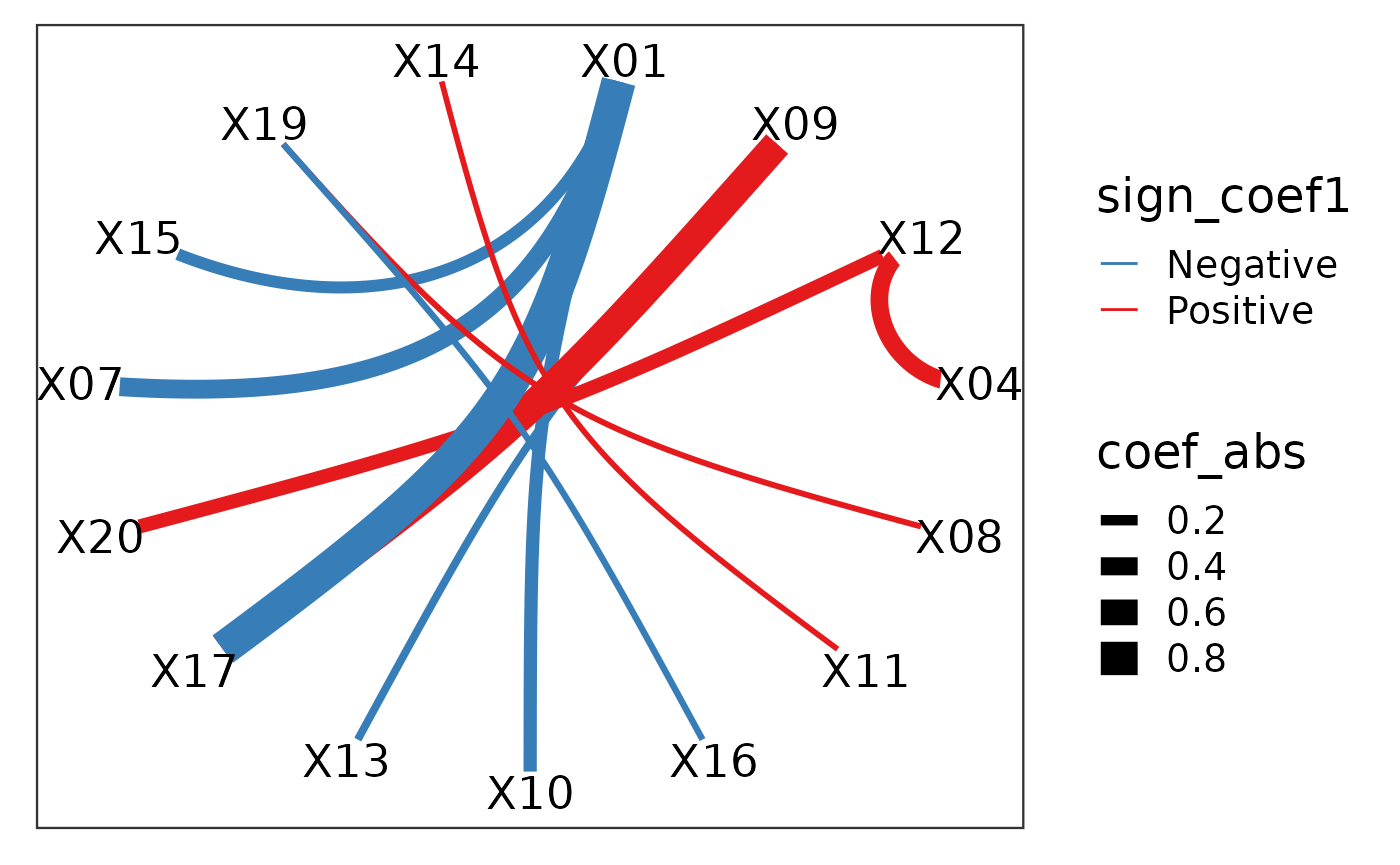
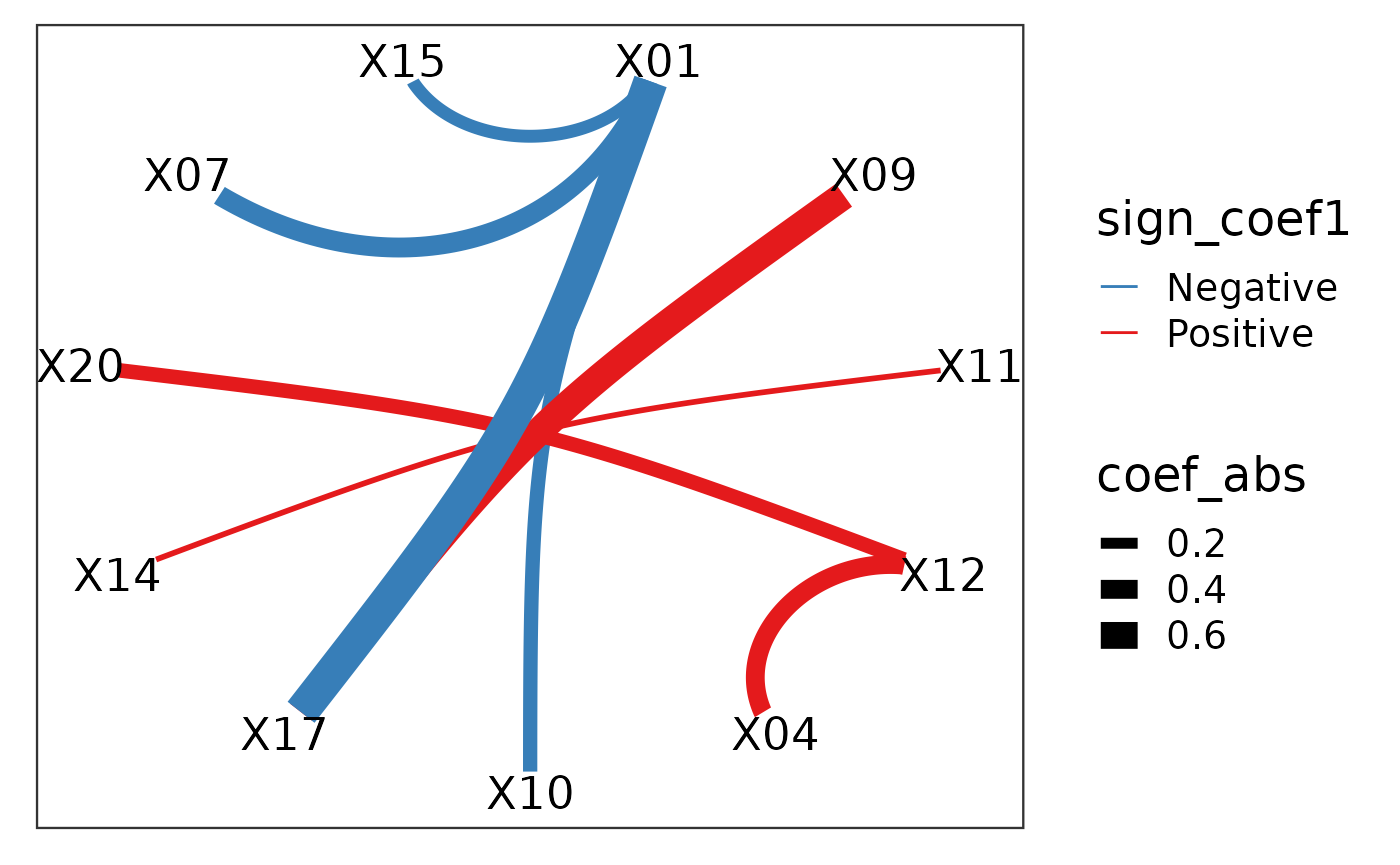
Built site for CPOP: 0.0.24@60bfb84

diff --git a/articles/CPOP.html b/articles/CPOP.html
@@ -161,28 +161,28 @@
 <pre><code><span class="co">## Fitting CPOP model using alpha = 1</span></code></pre>
 <pre><code><span class="co">## Based on previous alpha, 0 features are kept</span></code></pre>
 <pre><code><span class="co">## CPOP1 - Step 01: Number of selected features: 0 out of 190</span></code></pre>
-<pre><code><span class="co">## CPOP1 - Step 02: Number of selected features: 7 out of 190</span></code></pre>
+<pre><code><span class="co">## CPOP1 - Step 02: Number of selected features: 9 out of 190</span></code></pre>
 <pre><code><span class="co">## CPOP1 - Step 03: Number of selected features: 16 out of 190</span></code></pre>
 <pre><code><span class="co">## 10 features was reached.</span></code></pre>
 <pre><code><span class="co">## A total of 16 features were selected.</span></code></pre>
 <pre><code><span class="co">## Removing sources of collinearity gives 13 features.</span></code></pre>
 <pre><code><span class="co">## 10 features was reached.</span></code></pre>
 <pre><code><span class="co">## A total of 13 features were selected.</span></code></pre>
-<pre><code><span class="co">## CPOP2 - Sign: Step 01: Number of leftover features: 12 out of 13</span></code></pre>
+<pre><code><span class="co">## CPOP2 - Sign: Step 01: Number of leftover features: 9 out of 13</span></code></pre>
 <pre><code><span class="co">## The sign matrix between the two data:</span></code></pre>
 <pre><code><span class="co">##     </span>
 <span class="co">##      -1 0 1</span>
-<span class="co">##   -1  0 0 0</span>
+<span class="co">##   -1  0 0 1</span>
 <span class="co">##   0   0 0 0</span>
-<span class="co">##   1   1 0 0</span></code></pre>
-<pre><code><span class="co">## CPOP2 - Sign: Step 02: Number of leftover features: 11 out of 13</span>
+<span class="co">##   1   3 0 0</span></code></pre>
+<pre><code><span class="co">## CPOP2 - Sign: Step 02: Number of leftover features: 8 out of 13</span>
 <span class="co">## The sign matrix between the two data:</span></code></pre>
 <pre><code><span class="co">##     </span>
 <span class="co">##      -1 0 1</span>
 <span class="co">##   -1  0 0 0</span>
 <span class="co">##   0   0 0 0</span>
 <span class="co">##   1   1 0 0</span></code></pre>
-<pre><code><span class="co">## CPOP2 - Sign: Step 03: Number of leftover features: 11 out of 13</span>
+<pre><code><span class="co">## CPOP2 - Sign: Step 03: Number of leftover features: 8 out of 13</span>
 <span class="co">## The sign matrix between the two data:</span></code></pre>
 <pre><code><span class="co">##     </span>
 <span class="co">##      -1 0 1</span>
@@ -205,20 +205,17 @@
 <p><img src="CPOP_files/figure-html/unnamed-chunk-5-1.png" width="700"></p>
 <pre><code><span class="co">## </span>
 <span class="co">## $data</span>
-<span class="co">## <span style="color: #949494;"># A tibble: 11 × 3</span></span>
-<span class="co">##    coef_name   coef1   coef2</span>
-<span class="co">##    <span style="color: #949494; font-style: italic;">&lt;fct&gt;</span>       <span style="color: #949494; font-style: italic;">&lt;dbl&gt;</span>   <span style="color: #949494; font-style: italic;">&lt;dbl&gt;</span></span>
-<span class="co">## <span style="color: #BCBCBC;"> 1</span> X01--X10  -<span style="color: #BB0000;">0.325</span>  -<span style="color: #BB0000;">0.224</span> </span>
-<span class="co">## <span style="color: #BCBCBC;"> 2</span> X09--X13  -<span style="color: #BB0000;">0.068</span><span style="color: #BB0000; text-decoration: underline;">5</span> -<span style="color: #BB0000;">0.198</span> </span>
-<span class="co">## <span style="color: #BCBCBC;"> 3</span> X09--X17   0.748   0.639 </span>
-<span class="co">## <span style="color: #BCBCBC;"> 4</span> X12--X20   0.399   0.195 </span>
-<span class="co">## <span style="color: #BCBCBC;"> 5</span> X01--X07  -<span style="color: #BB0000;">0.433</span>  -<span style="color: #BB0000;">0.409</span> </span>
-<span class="co">## <span style="color: #BCBCBC;"> 6</span> X01--X15  -<span style="color: #BB0000;">0.159</span>  -<span style="color: #BB0000;">0.327</span> </span>
-<span class="co">## <span style="color: #BCBCBC;"> 7</span> X01--X17  -<span style="color: #BB0000;">0.922</span>  -<span style="color: #BB0000;">0.719</span> </span>
-<span class="co">## <span style="color: #BCBCBC;"> 8</span> X04--X12   0.344   0.437 </span>
-<span class="co">## <span style="color: #BCBCBC;"> 9</span> X08--X19   0.029<span style="text-decoration: underline;">8</span>  0.136 </span>
-<span class="co">## <span style="color: #BCBCBC;">10</span> X11--X14   0.128   0.025<span style="text-decoration: underline;">6</span></span>
-<span class="co">## <span style="color: #BCBCBC;">11</span> X16--X19  -<span style="color: #BB0000;">0.027</span><span style="color: #BB0000; text-decoration: underline;">6</span> -<span style="color: #BB0000;">0.165</span></span></code></pre>
+<span class="co">## <span style="color: #949494;"># A tibble: 8 × 3</span></span>
+<span class="co">##   coef_name  coef1    coef2</span>
+<span class="co">##   <span style="color: #949494; font-style: italic;">&lt;fct&gt;</span>      <span style="color: #949494; font-style: italic;">&lt;dbl&gt;</span>    <span style="color: #949494; font-style: italic;">&lt;dbl&gt;</span></span>
+<span class="co">## <span style="color: #BCBCBC;">1</span> X01--X10  -<span style="color: #BB0000;">0.322</span> -<span style="color: #BB0000;">0.246</span>  </span>
+<span class="co">## <span style="color: #BCBCBC;">2</span> X09--X17   0.722  0.538  </span>
+<span class="co">## <span style="color: #BCBCBC;">3</span> X11--X14   0.130  0.003<span style="text-decoration: underline;">47</span></span>
+<span class="co">## <span style="color: #BCBCBC;">4</span> X12--X20   0.404  0.178  </span>
+<span class="co">## <span style="color: #BCBCBC;">5</span> X01--X07  -<span style="color: #BB0000;">0.437</span> -<span style="color: #BB0000;">0.412</span>  </span>
+<span class="co">## <span style="color: #BCBCBC;">6</span> X01--X15  -<span style="color: #BB0000;">0.158</span> -<span style="color: #BB0000;">0.340</span>  </span>
+<span class="co">## <span style="color: #BCBCBC;">7</span> X01--X17  -<span style="color: #BB0000;">0.901</span> -<span style="color: #BB0000;">0.667</span>  </span>
+<span class="co">## <span style="color: #BCBCBC;">8</span> X04--X12   0.353  0.443</span></code></pre>
 <p>We can see that most of the selected features had similar coefficients across the two data. This is exactly what CPOP is aiming to achieve: selecting features that are consistent within each datasets.</p>
 <p>However, each of the feature (e.g. <code>X01--X10</code>) actually corresponds to two of the original features in the raw data <code>X01</code> and <code>X10</code> in the data <code>x1</code> and <code>x2</code>. We can further visualise these features in the original features.</p>
 <div class="sourceCode" id="cb33"><pre class="downlit sourceCode r">
@@ -227,20 +224,17 @@
 <p><img src="CPOP_files/figure-html/unnamed-chunk-6-1.png" width="700"></p>
 <pre><code><span class="co">## </span>
 <span class="co">## $data</span>
-<span class="co">## <span style="color: #949494;"># A tibble: 11 × 7</span></span>
-<span class="co">##    from  to      coef1   coef2 coef_avg coef_abs sign_coef1</span>
-<span class="co">##    <span style="color: #949494; font-style: italic;">&lt;chr&gt;</span> <span style="color: #949494; font-style: italic;">&lt;chr&gt;</span>   <span style="color: #949494; font-style: italic;">&lt;dbl&gt;</span>   <span style="color: #949494; font-style: italic;">&lt;dbl&gt;</span>    <span style="color: #949494; font-style: italic;">&lt;dbl&gt;</span>    <span style="color: #949494; font-style: italic;">&lt;dbl&gt;</span> <span style="color: #949494; font-style: italic;">&lt;chr&gt;</span>     </span>
-<span class="co">## <span style="color: #BCBCBC;"> 1</span> X01   X10   -<span style="color: #BB0000;">0.325</span>  -<span style="color: #BB0000;">0.224</span>   -<span style="color: #BB0000;">0.275</span>    0.275  Negative  </span>
-<span class="co">## <span style="color: #BCBCBC;"> 2</span> X09   X13   -<span style="color: #BB0000;">0.068</span><span style="color: #BB0000; text-decoration: underline;">5</span> -<span style="color: #BB0000;">0.198</span>   -<span style="color: #BB0000;">0.134</span>    0.134  Negative  </span>
-<span class="co">## <span style="color: #BCBCBC;"> 3</span> X09   X17    0.748   0.639    0.693    0.693  Positive  </span>
-<span class="co">## <span style="color: #BCBCBC;"> 4</span> X12   X20    0.399   0.195    0.297    0.297  Positive  </span>
-<span class="co">## <span style="color: #BCBCBC;"> 5</span> X01   X07   -<span style="color: #BB0000;">0.433</span>  -<span style="color: #BB0000;">0.409</span>   -<span style="color: #BB0000;">0.421</span>    0.421  Negative  </span>
-<span class="co">## <span style="color: #BCBCBC;"> 6</span> X01   X15   -<span style="color: #BB0000;">0.159</span>  -<span style="color: #BB0000;">0.327</span>   -<span style="color: #BB0000;">0.243</span>    0.243  Negative  </span>
-<span class="co">## <span style="color: #BCBCBC;"> 7</span> X01   X17   -<span style="color: #BB0000;">0.922</span>  -<span style="color: #BB0000;">0.719</span>   -<span style="color: #BB0000;">0.821</span>    0.821  Negative  </span>
-<span class="co">## <span style="color: #BCBCBC;"> 8</span> X04   X12    0.344   0.437    0.390    0.390  Positive  </span>
-<span class="co">## <span style="color: #BCBCBC;"> 9</span> X08   X19    0.029<span style="text-decoration: underline;">8</span>  0.136    0.082<span style="text-decoration: underline;">8</span>   0.082<span style="text-decoration: underline;">8</span> Positive  </span>
-<span class="co">## <span style="color: #BCBCBC;">10</span> X11   X14    0.128   0.025<span style="text-decoration: underline;">6</span>   0.076<span style="text-decoration: underline;">6</span>   0.076<span style="text-decoration: underline;">6</span> Positive  </span>
-<span class="co">## <span style="color: #BCBCBC;">11</span> X16   X19   -<span style="color: #BB0000;">0.027</span><span style="color: #BB0000; text-decoration: underline;">6</span> -<span style="color: #BB0000;">0.165</span>   -<span style="color: #BB0000;">0.096</span><span style="color: #BB0000; text-decoration: underline;">1</span>   0.096<span style="text-decoration: underline;">1</span> Negative</span></code></pre>
+<span class="co">## <span style="color: #949494;"># A tibble: 8 × 7</span></span>
+<span class="co">##   from  to     coef1    coef2 coef_avg coef_abs sign_coef1</span>
+<span class="co">##   <span style="color: #949494; font-style: italic;">&lt;chr&gt;</span> <span style="color: #949494; font-style: italic;">&lt;chr&gt;</span>  <span style="color: #949494; font-style: italic;">&lt;dbl&gt;</span>    <span style="color: #949494; font-style: italic;">&lt;dbl&gt;</span>    <span style="color: #949494; font-style: italic;">&lt;dbl&gt;</span>    <span style="color: #949494; font-style: italic;">&lt;dbl&gt;</span> <span style="color: #949494; font-style: italic;">&lt;chr&gt;</span>     </span>
+<span class="co">## <span style="color: #BCBCBC;">1</span> X01   X10   -<span style="color: #BB0000;">0.322</span> -<span style="color: #BB0000;">0.246</span>    -<span style="color: #BB0000;">0.284</span>    0.284  Negative  </span>
+<span class="co">## <span style="color: #BCBCBC;">2</span> X09   X17    0.722  0.538     0.630    0.630  Positive  </span>
+<span class="co">## <span style="color: #BCBCBC;">3</span> X11   X14    0.130  0.003<span style="text-decoration: underline;">47</span>   0.066<span style="text-decoration: underline;">9</span>   0.066<span style="text-decoration: underline;">9</span> Positive  </span>
+<span class="co">## <span style="color: #BCBCBC;">4</span> X12   X20    0.404  0.178     0.291    0.291  Positive  </span>
+<span class="co">## <span style="color: #BCBCBC;">5</span> X01   X07   -<span style="color: #BB0000;">0.437</span> -<span style="color: #BB0000;">0.412</span>    -<span style="color: #BB0000;">0.425</span>    0.425  Negative  </span>
+<span class="co">## <span style="color: #BCBCBC;">6</span> X01   X15   -<span style="color: #BB0000;">0.158</span> -<span style="color: #BB0000;">0.340</span>    -<span style="color: #BB0000;">0.249</span>    0.249  Negative  </span>
+<span class="co">## <span style="color: #BCBCBC;">7</span> X01   X17   -<span style="color: #BB0000;">0.901</span> -<span style="color: #BB0000;">0.667</span>    -<span style="color: #BB0000;">0.784</span>    0.784  Negative  </span>
+<span class="co">## <span style="color: #BCBCBC;">8</span> X04   X12    0.353  0.443     0.398    0.398  Positive</span></code></pre>
 <p>Here we see that despite the features that we have selected in terms of the ratio, in actual fact, only a handful of features are useful. In particular, <code>X01</code>, <code>X09</code> and <code>X17</code> are the main contributors.</p>
 </div>
 <div class="section level3">
@@ -254,12 +248,12 @@
 <pre><code><span class="co">## <span style="color: #949494;"># A tibble: 6 × 6</span></span>
 <span class="co">##   samples cpop_model1 cpop_model2 cpop_model_avg cpop_model_avg_prob</span>
 <span class="co">##   <span style="color: #949494; font-style: italic;">&lt;chr&gt;</span>         <span style="color: #949494; font-style: italic;">&lt;dbl&gt;</span>       <span style="color: #949494; font-style: italic;">&lt;dbl&gt;</span>          <span style="color: #949494; font-style: italic;">&lt;dbl&gt;</span>               <span style="color: #949494; font-style: italic;">&lt;dbl&gt;</span></span>
-<span class="co">## <span style="color: #BCBCBC;">1</span> 1             0.472       0.248          0.360               0.589</span>
-<span class="co">## <span style="color: #BCBCBC;">2</span> 2            -<span style="color: #BB0000;">1.74</span>       -<span style="color: #BB0000;">1.08</span>          -<span style="color: #BB0000;">1.41</span>                0.201</span>
-<span class="co">## <span style="color: #BCBCBC;">3</span> 3             0.808       0.528          0.668               0.660</span>
-<span class="co">## <span style="color: #BCBCBC;">4</span> 4            -<span style="color: #BB0000;">1.01</span>       -<span style="color: #BB0000;">1.18</span>          -<span style="color: #BB0000;">1.09</span>                0.251</span>
-<span class="co">## <span style="color: #BCBCBC;">5</span> 5            -<span style="color: #BB0000;">0.385</span>      -<span style="color: #BB0000;">0.311</span>         -<span style="color: #BB0000;">0.348</span>               0.414</span>
-<span class="co">## <span style="color: #BCBCBC;">6</span> 6             1.01        1.36           1.19                0.764</span>
+<span class="co">## <span style="color: #BCBCBC;">1</span> 1             0.465       0.162          0.313               0.577</span>
+<span class="co">## <span style="color: #BCBCBC;">2</span> 2            -<span style="color: #BB0000;">1.79</span>       -<span style="color: #BB0000;">1.09</span>          -<span style="color: #BB0000;">1.44</span>                0.197</span>
+<span class="co">## <span style="color: #BCBCBC;">3</span> 3             0.853       0.629          0.741               0.677</span>
+<span class="co">## <span style="color: #BCBCBC;">4</span> 4            -<span style="color: #BB0000;">0.936</span>      -<span style="color: #BB0000;">0.821</span>         -<span style="color: #BB0000;">0.879</span>               0.294</span>
+<span class="co">## <span style="color: #BCBCBC;">5</span> 5            -<span style="color: #BB0000;">0.424</span>      -<span style="color: #BB0000;">0.614</span>         -<span style="color: #BB0000;">0.519</span>               0.373</span>
+<span class="co">## <span style="color: #BCBCBC;">6</span> 6             1.00        1.38           1.19                0.765</span>
 <span class="co">## <span style="color: #949494;"># … with 1 more variable: cpop_model_avg_class &lt;chr&gt;</span></span></code></pre>
 <div class="sourceCode" id="cb38"><pre class="downlit sourceCode r">
 <code class="sourceCode R"><span class="va">predicted_plotdf</span> <span class="op">=</span> <span class="fu"><a href="../reference/predict_cpop.html">predict_cpop</a></span><span class="op">(</span><span class="va">cpop_result</span>, newx <span class="op">=</span> <span class="va">x3</span><span class="op">)</span> <span class="op"><a href="https://magrittr.tidyverse.org/reference/pipe.html" class="external-link">%&gt;%</a></span>

diff --git a/reference/plot_cpop.html b/reference/plot_cpop.html
@@ -155,20 +155,20 @@
 <span class="r-out co"><span class="r-pr">#&gt;</span>    coef_name coef_key coef_value</span>
 <span class="r-out co"><span class="r-pr">#&gt;</span>    <span style="color: #949494; font-style: italic;">&lt;fct&gt;</span>     <span style="color: #949494; font-style: italic;">&lt;chr&gt;</span>         <span style="color: #949494; font-style: italic;">&lt;dbl&gt;</span></span>
 <span class="r-out co"><span class="r-pr">#&gt;</span> <span style="color: #BCBCBC;"> 1</span> X01--X10  coef1      -<span style="color: #BB0000;">0.322</span>  </span>
-<span class="r-out co"><span class="r-pr">#&gt;</span> <span style="color: #BCBCBC;"> 2</span> X09--X17  coef1       0.722  </span>
-<span class="r-out co"><span class="r-pr">#&gt;</span> <span style="color: #BCBCBC;"> 3</span> X11--X14  coef1       0.130  </span>
-<span class="r-out co"><span class="r-pr">#&gt;</span> <span style="color: #BCBCBC;"> 4</span> X12--X20  coef1       0.404  </span>
-<span class="r-out co"><span class="r-pr">#&gt;</span> <span style="color: #BCBCBC;"> 5</span> X01--X07  coef1      -<span style="color: #BB0000;">0.437</span>  </span>
-<span class="r-out co"><span class="r-pr">#&gt;</span> <span style="color: #BCBCBC;"> 6</span> X01--X15  coef1      -<span style="color: #BB0000;">0.158</span>  </span>
-<span class="r-out co"><span class="r-pr">#&gt;</span> <span style="color: #BCBCBC;"> 7</span> X01--X17  coef1      -<span style="color: #BB0000;">0.901</span>  </span>
-<span class="r-out co"><span class="r-pr">#&gt;</span> <span style="color: #BCBCBC;"> 8</span> X04--X12  coef1       0.353  </span>
-<span class="r-out co"><span class="r-pr">#&gt;</span> <span style="color: #BCBCBC;"> 9</span> X01--X10  coef2      -<span style="color: #BB0000;">0.246</span>  </span>
-<span class="r-out co"><span class="r-pr">#&gt;</span> <span style="color: #BCBCBC;">10</span> X09--X17  coef2       0.521  </span>
-<span class="r-out co"><span class="r-pr">#&gt;</span> <span style="color: #BCBCBC;">11</span> X11--X14  coef2       0.002<span style="text-decoration: underline;">92</span></span>
-<span class="r-out co"><span class="r-pr">#&gt;</span> <span style="color: #BCBCBC;">12</span> X12--X20  coef2       0.170  </span>
-<span class="r-out co"><span class="r-pr">#&gt;</span> <span style="color: #BCBCBC;">13</span> X01--X07  coef2      -<span style="color: #BB0000;">0.408</span>  </span>
-<span class="r-out co"><span class="r-pr">#&gt;</span> <span style="color: #BCBCBC;">14</span> X01--X15  coef2      -<span style="color: #BB0000;">0.334</span>  </span>
-<span class="r-out co"><span class="r-pr">#&gt;</span> <span style="color: #BCBCBC;">15</span> X01--X17  coef2      -<span style="color: #BB0000;">0.644</span>  </span>
+<span class="r-out co"><span class="r-pr">#&gt;</span> <span style="color: #BCBCBC;"> 2</span> X01--X10  coef2      -<span style="color: #BB0000;">0.246</span>  </span>
+<span class="r-out co"><span class="r-pr">#&gt;</span> <span style="color: #BCBCBC;"> 3</span> X09--X17  coef1       0.722  </span>
+<span class="r-out co"><span class="r-pr">#&gt;</span> <span style="color: #BCBCBC;"> 4</span> X09--X17  coef2       0.521  </span>
+<span class="r-out co"><span class="r-pr">#&gt;</span> <span style="color: #BCBCBC;"> 5</span> X11--X14  coef1       0.130  </span>
+<span class="r-out co"><span class="r-pr">#&gt;</span> <span style="color: #BCBCBC;"> 6</span> X11--X14  coef2       0.002<span style="text-decoration: underline;">92</span></span>
+<span class="r-out co"><span class="r-pr">#&gt;</span> <span style="color: #BCBCBC;"> 7</span> X12--X20  coef1       0.404  </span>
+<span class="r-out co"><span class="r-pr">#&gt;</span> <span style="color: #BCBCBC;"> 8</span> X12--X20  coef2       0.170  </span>
+<span class="r-out co"><span class="r-pr">#&gt;</span> <span style="color: #BCBCBC;"> 9</span> X01--X07  coef1      -<span style="color: #BB0000;">0.437</span>  </span>
+<span class="r-out co"><span class="r-pr">#&gt;</span> <span style="color: #BCBCBC;">10</span> X01--X07  coef2      -<span style="color: #BB0000;">0.408</span>  </span>
+<span class="r-out co"><span class="r-pr">#&gt;</span> <span style="color: #BCBCBC;">11</span> X01--X15  coef1      -<span style="color: #BB0000;">0.158</span>  </span>
+<span class="r-out co"><span class="r-pr">#&gt;</span> <span style="color: #BCBCBC;">12</span> X01--X15  coef2      -<span style="color: #BB0000;">0.334</span>  </span>
+<span class="r-out co"><span class="r-pr">#&gt;</span> <span style="color: #BCBCBC;">13</span> X01--X17  coef1      -<span style="color: #BB0000;">0.901</span>  </span>
+<span class="r-out co"><span class="r-pr">#&gt;</span> <span style="color: #BCBCBC;">14</span> X01--X17  coef2      -<span style="color: #BB0000;">0.644</span>  </span>
+<span class="r-out co"><span class="r-pr">#&gt;</span> <span style="color: #BCBCBC;">15</span> X04--X12  coef1       0.353  </span>
 <span class="r-out co"><span class="r-pr">#&gt;</span> <span style="color: #BCBCBC;">16</span> X04--X12  coef2       0.431  </span>
 <span class="r-out co"><span class="r-pr">#&gt;</span> </span>
 <span class="r-in"><span class="fu">plot_cpop</span><span class="op">(</span><span class="va">cpop_result</span>, type <span class="op">=</span> <span class="st">"ggraph"</span><span class="op">)</span></span>

diff --git a/reference/cpop_network.html b/reference/cpop_network.html
@@ -84,9 +84,9 @@ using the `ggraph` package.</p></li>
 <span class="r-in"><span class="fu">plot_lratio_network</span><span class="op">(</span><span class="va">x</span>, type <span class="op">=</span> <span class="st">"ggraph"</span><span class="op">)</span></span>
 <span class="r-plt img"><img src="cpop_network-1.png" alt="" width="700" height="433"></span>
 <span class="r-in"><span class="fu">plot_lratio_network</span><span class="op">(</span><span class="va">x</span>, type <span class="op">=</span> <span class="st">"igraph"</span><span class="op">)</span></span>
-<span class="r-out co"><span class="r-pr">#&gt;</span> IGRAPH 7cebf9b UN-- 10 9 -- </span>
+<span class="r-out co"><span class="r-pr">#&gt;</span> IGRAPH 37f0237 UN-- 10 9 -- </span>
 <span class="r-out co"><span class="r-pr">#&gt;</span> + attr: name (v/c)</span>
-<span class="r-out co"><span class="r-pr">#&gt;</span> + edges from 7cebf9b (vertex names):</span>
+<span class="r-out co"><span class="r-pr">#&gt;</span> + edges from 37f0237 (vertex names):</span>
 <span class="r-out co"><span class="r-pr">#&gt;</span> [1] X1 --X10 X1 --X3  X1 --X4  X1 --X8  X1 --X9  X2 --X5  X2 --X7  X2 --X6 </span>
 <span class="r-out co"><span class="r-pr">#&gt;</span> [9] X10--X8 </span>
 <span class="r-in"><span class="fu">plot_lratio_network</span><span class="op">(</span><span class="va">x</span>, type <span class="op">=</span> <span class="st">"visNetwork"</span><span class="op">)</span></span>
